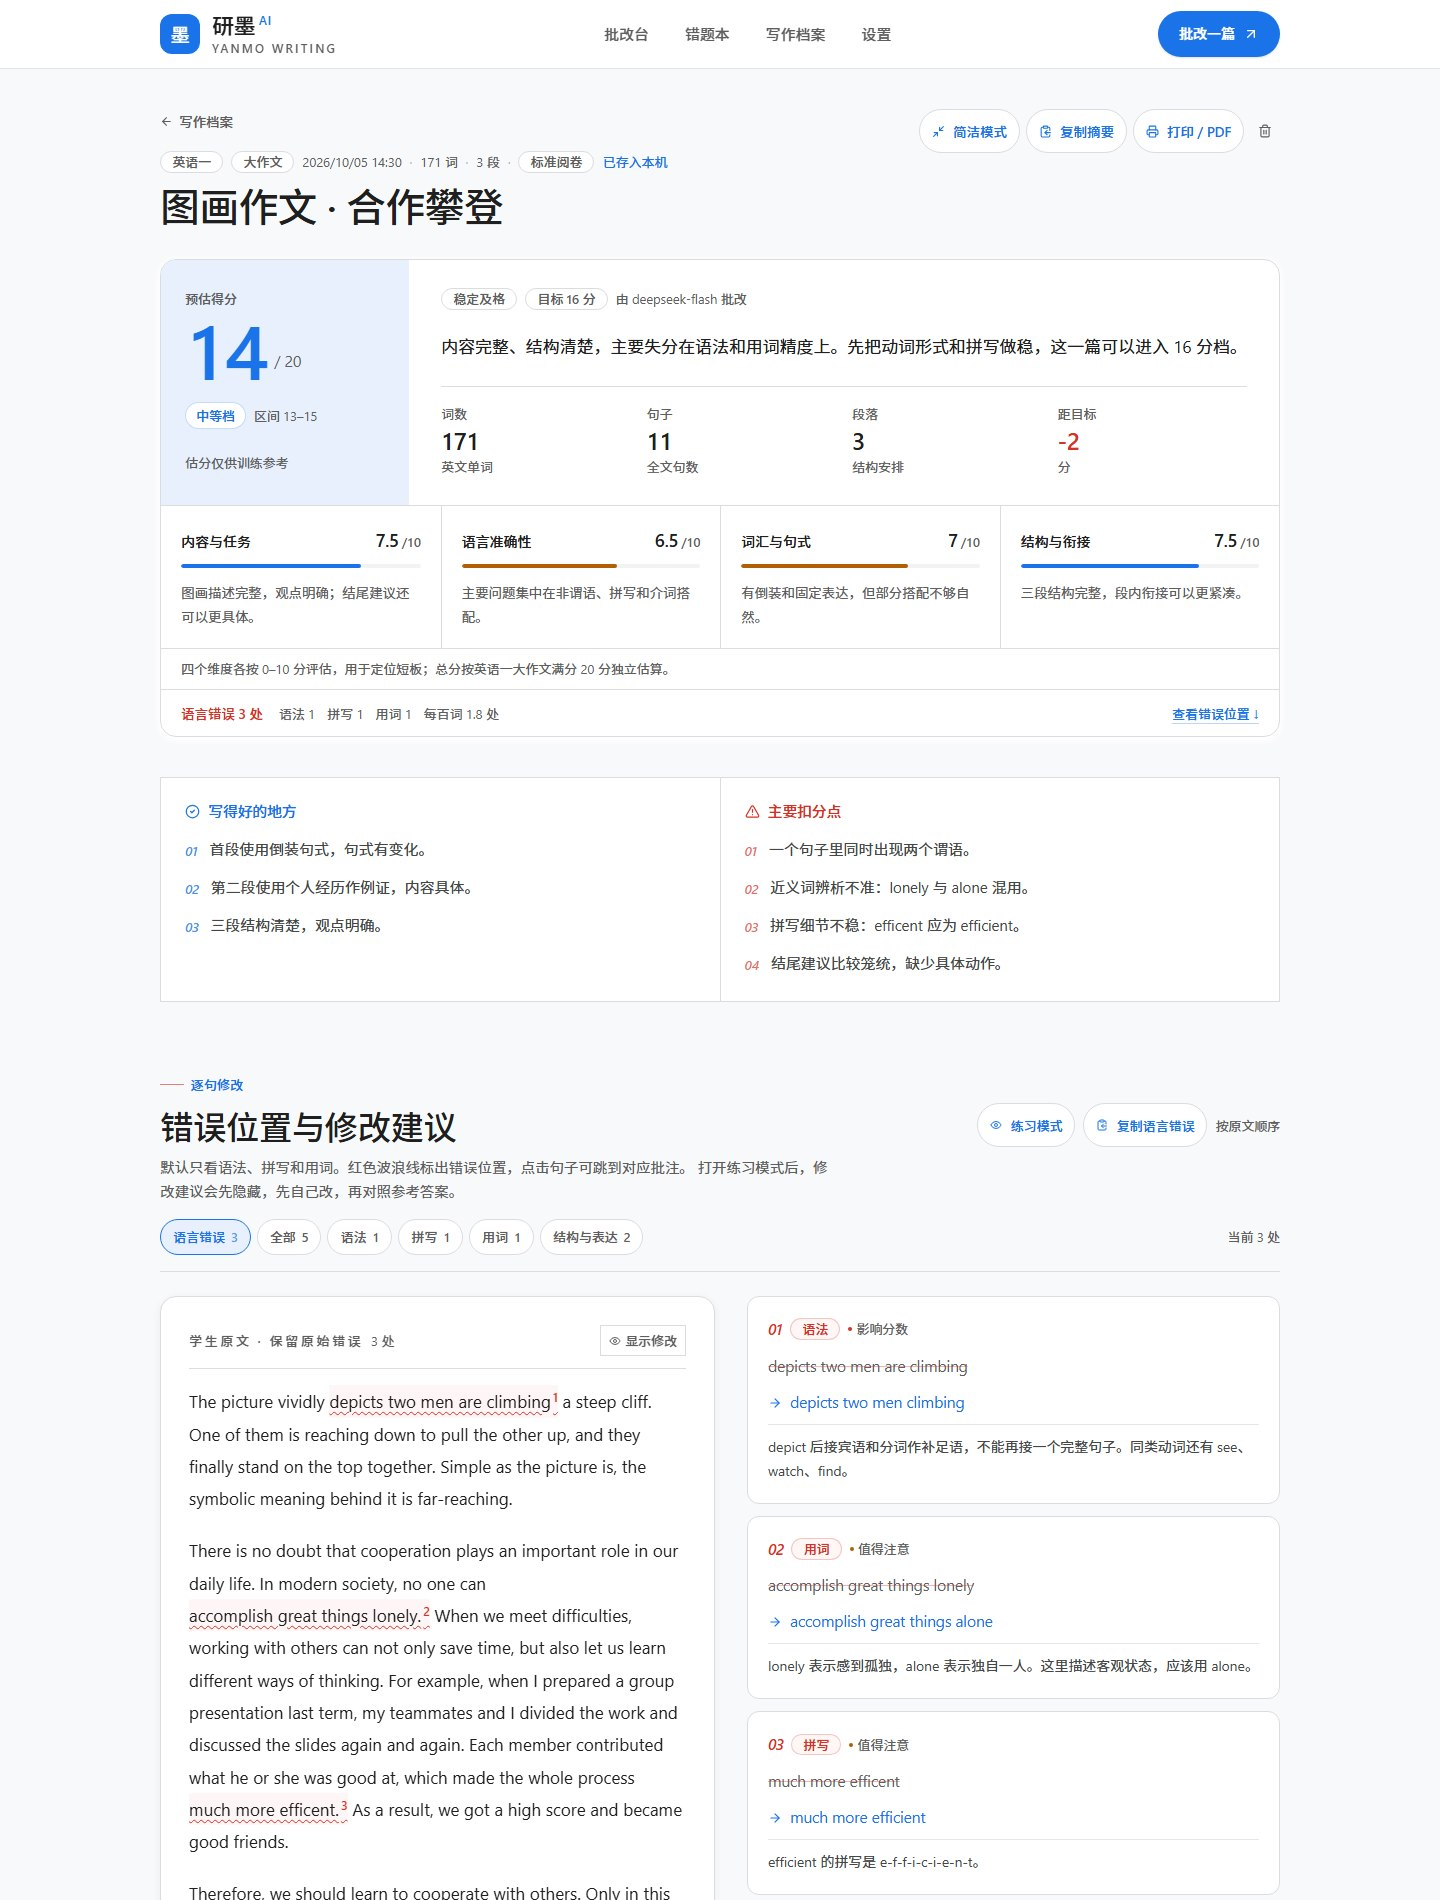
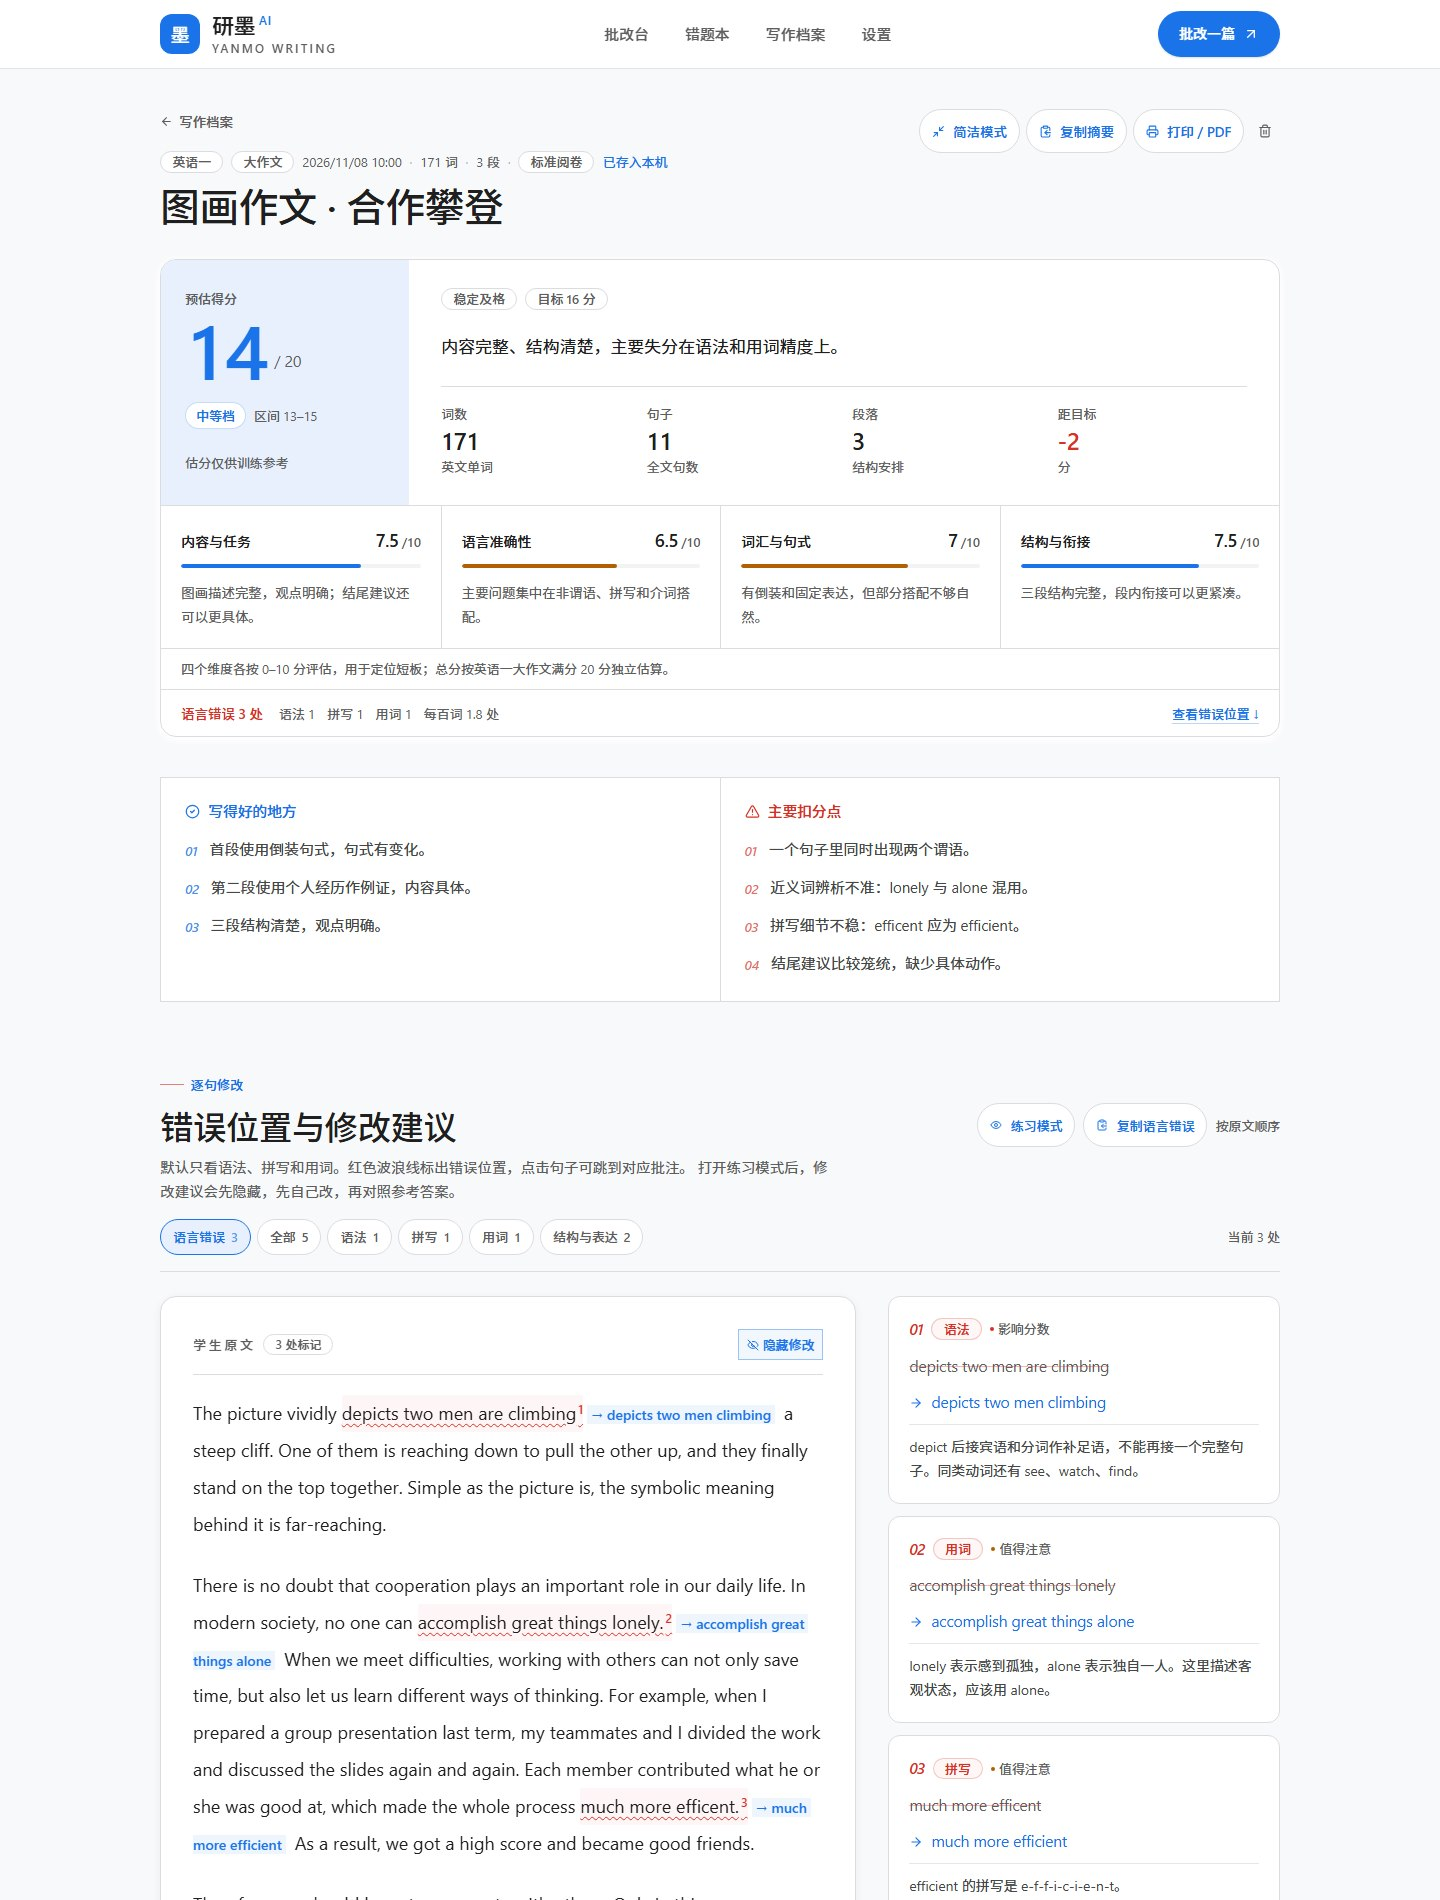
style: 报告原文默认显示修改并扩大阅读区域

Changed region(s): [[0.125, 0.6832, 0.875, 1.0], [0.5938, 0.1553, 0.7188, 0.1863], [0.75, 0.1553, 0.8125, 0.1863]]

diff --git a/app/report/[id]/page.tsx b/app/report/[id]/page.tsx
@@ -59,7 +59,7 @@ export default function ReportPage() {
   const [activeNote, setActiveNote] = useState<string | null>(null);
   const [showModel, setShowModel] = useState(true);
   const [filter, setFilter] = useState<FilterKey>("language");
-  const [showCorrections, setShowCorrections] = useState(false);
+  const [showCorrections, setShowCorrections] = useState(true);
   const [compact, setCompact] = useState(false);
   const [practice, setPractice] = useState(false);
   const [revealed, setRevealed] = useState<Set<string>>(new Set());
@@ -78,7 +78,7 @@ export default function ReportPage() {
   useEffect(() => {
     setLoading(true);
     setFilter("language");
-    setShowCorrections(false);
+    setShowCorrections(true);
     setPractice(false);
     setRevealed(new Set());
     setDrafts({});
@@ -187,9 +187,10 @@ export default function ReportPage() {
   };
 
   const togglePractice = () => {
-    setPractice((value) => !value);
+    const next = !practice;
+    setPractice(next);
     setRevealed(new Set());
-    setShowCorrections(false);
+    setShowCorrections(!next);
   };
 
   const toggleReveal = (annotationId: string) => {
@@ -602,15 +603,17 @@ export default function ReportPage() {
             </div>
           </div>
 
-          <div className="mt-6 grid gap-8 lg:grid-cols-[1.02fr_0.98fr]">
+          <div className="mt-6 grid gap-8 lg:grid-cols-[1.28fr_0.72fr]">
             <div className="lg:sticky lg:top-[92px] lg:self-start">
-              <div className="paper-card p-5 sm:p-7">
-                <div className="mb-4 flex flex-wrap items-center justify-between gap-2 border-b border-line pb-3">
+              <div className="paper-card p-5 sm:p-8">
+                <div className="mb-5 flex flex-wrap items-center justify-between gap-2 border-b border-line pb-3.5">
                   <div className="flex items-center gap-2">
                     <span className="text-[13px] font-medium tracking-[0.2em] text-ink-mute">
-                      学生原文 · 保留原始错误
+                      学生原文
                     </span>
-                    <span className="text-[13px] text-ink-mute">{filteredAnnotations.length} 处</span>
+                    <span className="chip !py-0.5 !text-[12px]">
+                      {filteredAnnotations.length} 处标记
+                    </span>
                   </div>
                   {practice ? (
                     <span className="text-[13px] text-ink-mute">练习模式中不显示修改</span>
@@ -637,6 +640,7 @@ export default function ReportPage() {
                   activeId={activeNote}
                   onSelect={selectNote}
                   showCorrections={showCorrections}
+                  className="space-y-6 sm:!text-[18px] sm:!leading-[2.05]"
                 />
               </div>
               <div className="mt-3 flex flex-wrap items-center gap-x-5 gap-y-2 px-1 text-[13px] text-ink-mute">

diff --git a/components/report/annotated-essay.tsx b/components/report/annotated-essay.tsx
@@ -10,6 +10,7 @@ interface Props {
   activeId: string | null;
   onSelect: (id: string) => void;
   showCorrections?: boolean;
+  className?: string;
 }
 
 export function AnnotatedEssay({
@@ -17,7 +18,8 @@ export function AnnotatedEssay({
   annotations,
   activeId,
   onSelect,
-  showCorrections = false
+  showCorrections = false,
+  className
 }: Props) {
   const paragraphs = text
     .split(/\n\s*\n/)
@@ -25,7 +27,7 @@ export function AnnotatedEssay({
     .filter(Boolean);
 
   return (
-    <div className="essay-body space-y-5">
+    <div className={cn("essay-body space-y-5", className)}>
       {paragraphs.map((paragraph, paragraphIndex) => (
         <p key={paragraphIndex}>
           {renderParagraph(paragraph, annotations, activeId, onSelect, showCorrections)}
